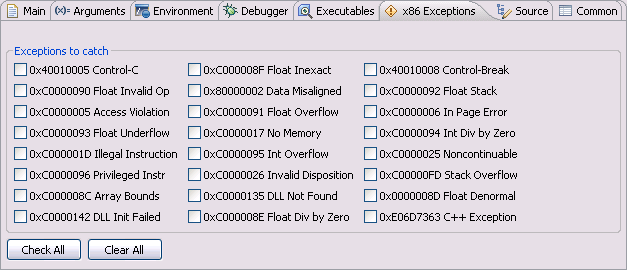
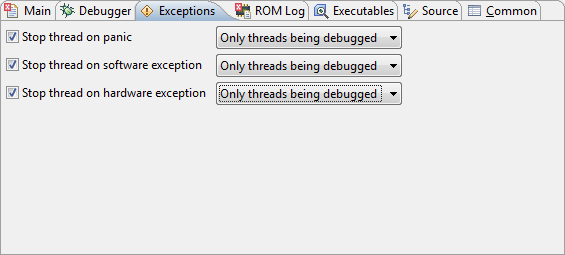
added new exceptions page for stop mode and related images

Changed region(s): [[0.0, 0.0, 1.0, 0.9882]]

diff --git a/core/com.nokia.carbide.cpp.doc.user/html/projects/launch/page_exceptions.htm b/core/com.nokia.carbide.cpp.doc.user/html/projects/launch/page_exceptions.htm
@@ -4,31 +4,43 @@
 <meta http-equiv="Content-Type" content="text/html; charset=ISO-8859-1" />
 <meta http-equiv="Content-Style-Type" content="text/css" />
 <meta name="LASTUPDATED" content="06/17/05 11:09:43" />
-<title>Carbide x86 Exceptions page</title>
+<title>Carbide Exceptions page</title>
 <link rel="StyleSheet" href="../../../book.css" type="text/css"/>
 </head>
 <body >
-<h2>x86 Exceptions page </h2>
-<p>  Use the <b>x86 Exceptions</b> page in the <a href="emulation.htm">Emulation</a> launch configuration to set  the x86 exceptions  the debugger should catch. If you want the debugger to catch all the exceptions, enable all of the options in this page. However, if you prefer to handle only certain exceptions, enable only those options that reflect the exceptions you want to handle.</p>
-<p align="center"><img src="images/page_exceptions.png" width="627" height="270" /></p>
-<p align="center" class="figure">Figure 1 - x86 Exceptions page</p>
-<h5>Table 1. x86 Exceptions page &mdash;items </h5>
-<table width="88%"  border="0" cellpadding="2" cellspacing="0">
+<h2>Exceptions page (stop mode)</h2>
+<p>  Use the <b>Exceptions</b> page in stop mode launch configurations enables you to control how stop threads are handled.</p>
+<p align="center"><img src="images/page_exceptions.png" alt="Exceptions page" width="565" height="255"></p>
+<p align="center" class="figure">Figure 1 - Exceptions page (stop-mode)</p>
+<h5>Table 1. Exceptions page &mdash;items </h5>
+<table width="800"  border="0" cellpadding="2" cellspacing="0">
   <tr>
-    <th width="38%" scope="col">Item</th>
-    <th width="62%" scope="col">Explanation</th>
+    <th width="30%" scope="col">Item</th>
+    <th width="70%" scope="col">Explanation</th>
   </tr>
   <tr>
-    <td><b>Exceptions to catch </b></td>
-    <td>Click to enable by exception which x86 exceptions the debugger should catch. </td>
+    <td><b>Stop thread on panic</b></td>
+    <td><p>Choose one of the options below to handle panic exceptions:</p>
+        <ul>
+            <li>Only threads being debugged</li>
+            <li>Any threads</li>
+        </ul></td>
   </tr>
   <tr>
-    <td><b>Check All </b></td>
-    <td>Enables catching all exceptions.</td>
+    <td><b>Stop thread on software exception</b></td>
+    <td><p>Choose one of the options below to handle software exceptions:</p>
+        <ul>
+            <li>Only threads being debugged</li>
+            <li>Any threads</li>
+        </ul></td>
   </tr>
   <tr>
-    <td><b>Clear All </b></td>
-    <td>Disables catching all exceptions.</td>
+    <td><b>Stop thread on hardware exception</b></td>
+    <td><p>Choose one of the options below to handle hardware exceptions:</p>
+        <ul>
+            <li>Only threads being debugged</li>
+            <li>Any threads</li>
+        </ul></td>
   </tr>
 </table>
 <h4>Other references</h4>

diff --git a/core/com.nokia.carbide.cpp.doc.user/html/projects/launch/page_x86_exceptions.htm b/core/com.nokia.carbide.cpp.doc.user/html/projects/launch/page_x86_exceptions.htm
@@ -1,0 +1,41 @@
+<!DOCTYPE HTML PUBLIC "-//W3C//DTD HTML 4.0 Transitional//EN">
+<html>
+<head>
+<meta http-equiv="Content-Type" content="text/html; charset=ISO-8859-1" />
+<meta http-equiv="Content-Style-Type" content="text/css" />
+<meta name="LASTUPDATED" content="06/17/05 11:09:43" />
+<title>Carbide x86 Exceptions page</title>
+<link rel="StyleSheet" href="../../../book.css" type="text/css"/>
+</head>
+<body >
+<h2>x86 Exceptions page </h2>
+<p>  Use the <b>x86 Exceptions</b> page in the <a href="emulation.htm">Emulation</a> launch configuration to set  the x86 exceptions  the debugger should catch. If you want the debugger to catch all the exceptions, enable all of the options in this page. However, if you prefer to handle only certain exceptions, enable only those options that reflect the exceptions you want to handle.</p>
+<p align="center"><img src="images/page_x86_exceptions.png" width="627" height="270" /></p>
+<p align="center" class="figure">Figure 1 - x86 Exceptions page</p>
+<h5>Table 1. x86 Exceptions page &mdash;items </h5>
+<table width="800"  border="0" cellpadding="2" cellspacing="0">
+  <tr>
+    <th width="30%" scope="col">Item</th>
+    <th width="70%" scope="col">Explanation</th>
+  </tr>
+  <tr>
+    <td><b>Exceptions to catch </b></td>
+    <td>Click to enable by exception which x86 exceptions the debugger should catch. </td>
+  </tr>
+  <tr>
+    <td><b>Check All </b></td>
+    <td>Enables catching all exceptions.</td>
+  </tr>
+  <tr>
+    <td><b>Clear All </b></td>
+    <td>Disables catching all exceptions.</td>
+  </tr>
+</table>
+<h4>Other references</h4>
+<ul>
+  <li><a href="launch_configs_overview.htm">Launch Configuration Overview</a></li>
+</ul>
+<div id="footer">Copyright &copy; 2010 Nokia Corporation and/or its subsidiary(-ies). All rights reserved. <br>License: <a href="http://www.eclipse.org/legal/epl-v10.html">http://www.eclipse.org/legal/epl-v10.html</a></div>
+<h5>&nbsp;</h5>
+</body>
+</html>

diff --git a/core/com.nokia.carbide.cpp.doc.user/html/projects/launch/emulation.htm b/core/com.nokia.carbide.cpp.doc.user/html/projects/launch/emulation.htm
@@ -20,7 +20,7 @@
   <li>The <a href="PLUGINS_ROOT/org.eclipse.cdt.doc.user/reference/cdt_u_run_dbg_env.htm">Environment</a> tab (<i>standard CDT page</i>) defines the environment variable values to use when running or debugging a program. By default, the environment is inherited from the Eclipse runtime. You may override or append to the inherited environment. </li>
   <li>The <a href="page_debugger.htm">Debugger</a> tab provides common debugger options for the project.</li>
   <li>The <a href="page_executables.htm">Executables</a> tab allows you to specify which executables are debugged by your project.</li>
-  <li>The <a href="page_exceptions.htm">x86 Exceptions</a> tab  lists all the x86 exceptions that the debugger can catch.</li>
+  <li>The <a href="page_x86_exceptions.htm">x86 Exceptions</a> tab  lists all the x86 exceptions that the debugger can catch.</li>
   <li>The <a href="PLUGINS_ROOT/org.eclipse.cdt.doc.user/reference/cdt_u_run_dbg_srce.htm">Source</a> tab (<i>standard CDT page</i>) defines the location of source files used to display source when debugging an application. By default, these settings are derived from the associated project's build path. You may override these settings here. </li>
   <li>The <a href="wiz_new_launch_config.htm">Common</a> tab (<i>standard CDT page</i>) defines general information about the launch configuration. You may choose to store the launch configuration in a specific file and specify which perspectives become active when the launch configuration is launched. </li>
 </ul>

diff --git a/core/com.nokia.carbide.cpp.doc.user/html/tasks/projects/prj_debug_config.htm b/core/com.nokia.carbide.cpp.doc.user/html/tasks/projects/prj_debug_config.htm
@@ -72,7 +72,7 @@
       <li>Environment (<i>Eclipse</i>) </li>
       <li><a href="../../projects/launch/page_debugger.htm">Debugger</a></li>
       <li><a href="../../projects/launch/page_executables.htm">Executables</a></li>
-      <li><a href="../../projects/launch/page_exceptions.htm">x86 Exceptions</a> </li>
+      <li><a href="../../projects/launch/page_x86_exceptions.htm">x86 Exceptions</a> </li>
       <li>Arguments (<i>Eclipse</i>) </li>
       <li>Source (<i>Eclipse</i>) </li>
       <li>Common (<i>Eclipse</i>) </li>

diff --git a/core/com.nokia.carbide.cpp.doc.user/html/projects/launch/pages_overview.htm b/core/com.nokia.carbide.cpp.doc.user/html/projects/launch/pages_overview.htm
@@ -19,7 +19,7 @@
   <li><a href="page_main.htm">Main</a></li>
   <li><a href="page_rom_image.htm">ROM Image</a></li>
   <li><a href="page_rom_log.htm">ROM Log</a></li>
-  <li><a href="page_exceptions.htm">x86 Exceptions</a></li>
+  <li><a href="page_x86_exceptions.htm">x86 Exceptions</a></li>
   <li><a href="../../reference/trk/wnd_new_connection_wizard.htm">Source</a> (<i>standard CDT page</i>) </li>
   <li><a href="wiz_new_launch_config.htm">Common</a> (<i>standard CDT page</i>) </li>
 </ul>

diff --git a/core/com.nokia.carbide.cpp.doc.user/html/projects/launch/customizing_launch_configs.htm b/core/com.nokia.carbide.cpp.doc.user/html/projects/launch/customizing_launch_configs.htm
@@ -58,7 +58,7 @@
       <li>Environment (<i>Eclipse</i>) </li>
       <li><a href="page_debugger.htm">Debugger</a></li>
       <li><a href="page_executables.htm">Executables</a></li>
-      <li><a href="page_exceptions.htm">x86 Exceptions</a> </li>
+      <li><a href="page_x86_exceptions.htm">x86 Exceptions</a> </li>
       <li>Arguments (<i>Eclipse</i>) </li>
       <li>Source (<i>Eclipse</i>) </li>
       <li>Common (<i>Eclipse</i>) </li>
